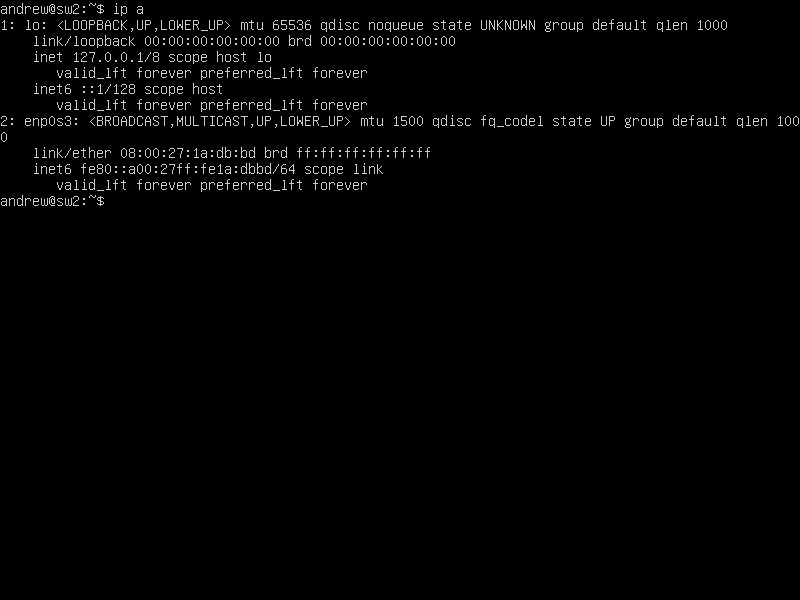
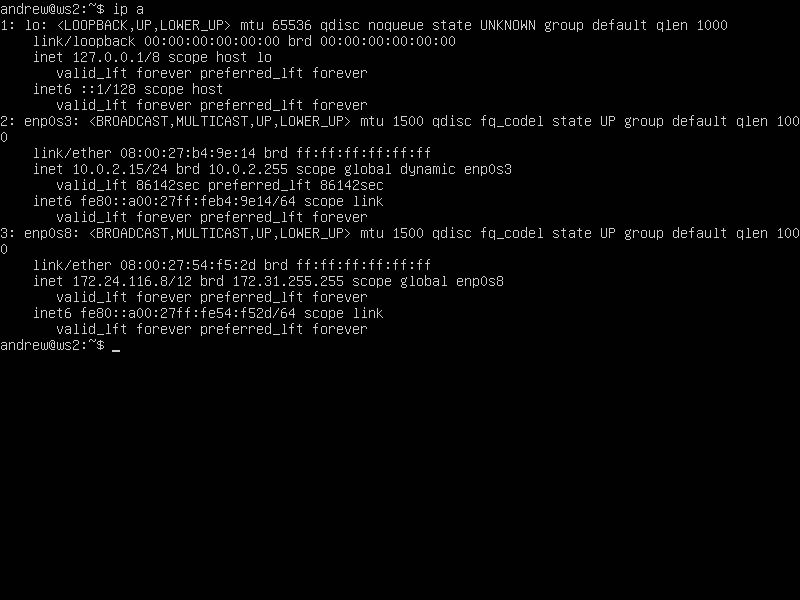
up to task 2

diff --git a/Linux/Linux 02.md b/Linux/Linux 02.md
@@ -73,14 +73,14 @@
 
 Опиши сетевой интерфейс, соответствующий внутренней сети, на обеих машинах и задать следующие адреса и маски: ws1 - *192.168.100.10*, маска */16*, ws2 - *172.24.116.8*, маска */12*.
 
-![9.png](img/9.png)
-![10.png](img/10.png)
+![9.png](img/11.png)
+![10.png](img/12.png)
 
 С помощью команды `ip a` посмотри существующие сетевые интерфейсы.
 
-![9.png](Linux%2002/9.png)
+![11.png](img/9.png)
 
-![10.png](Linux%2002/10.png)
+![12.png](img/10.png)
 
 ### 2.1. Добавление статического маршрута вручную
 
